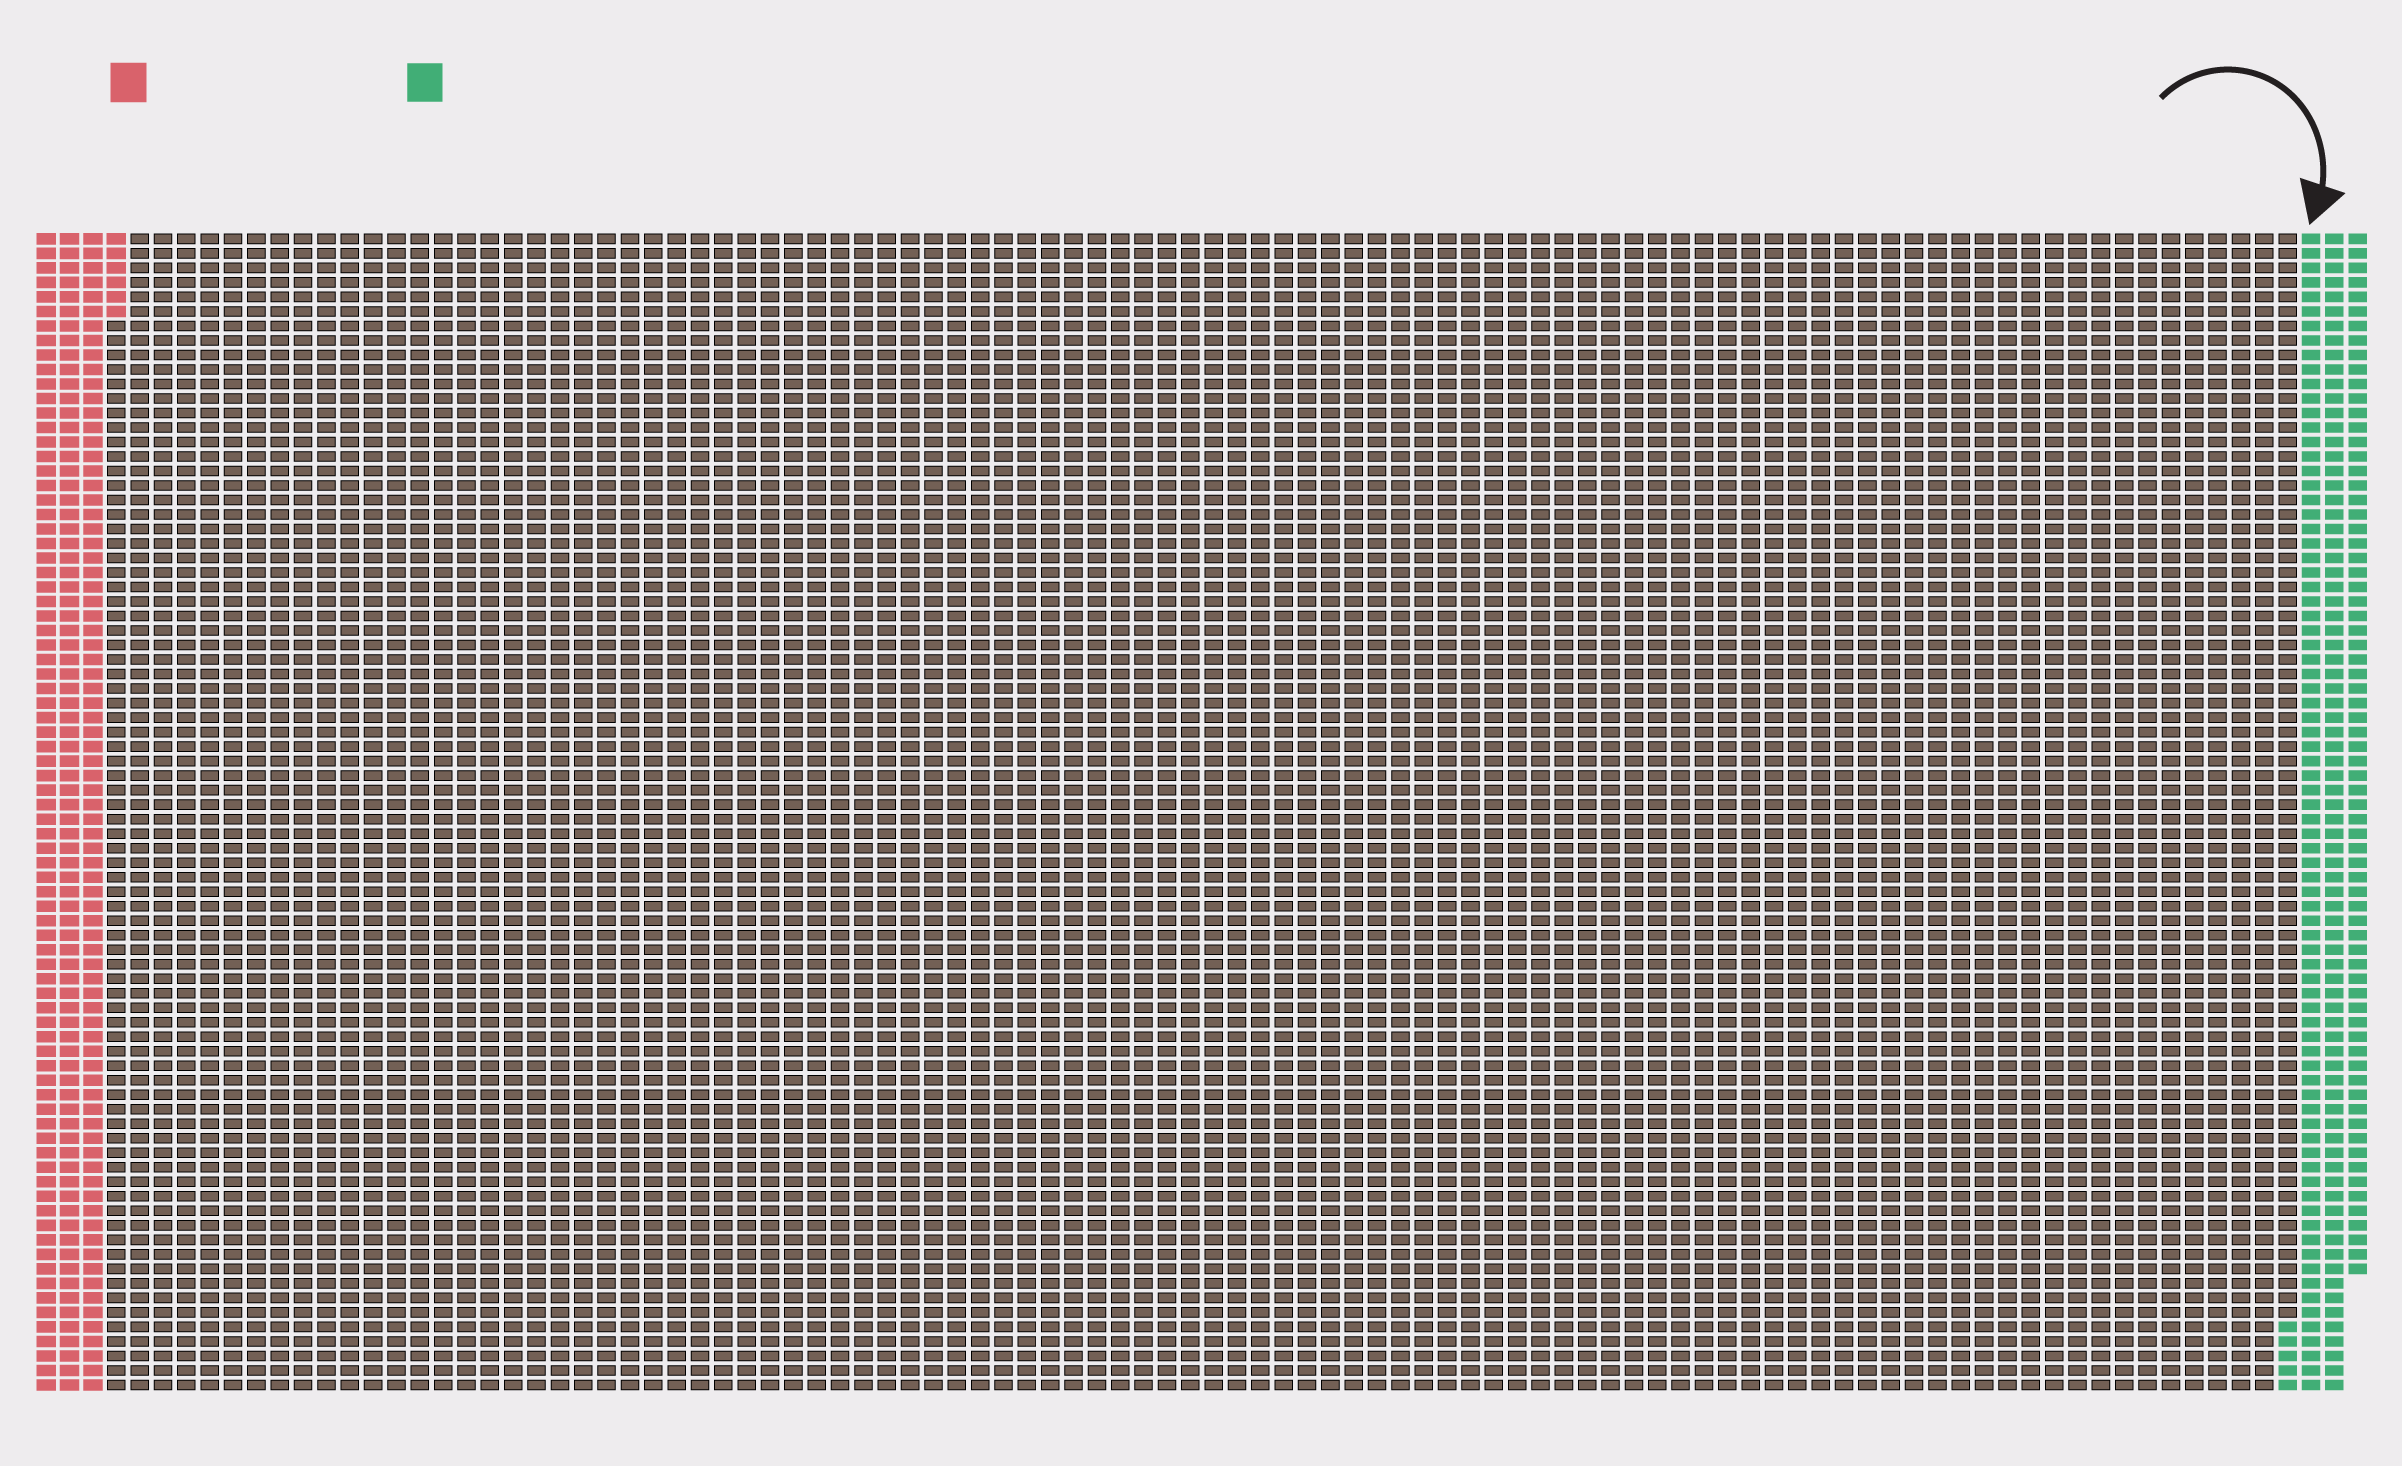
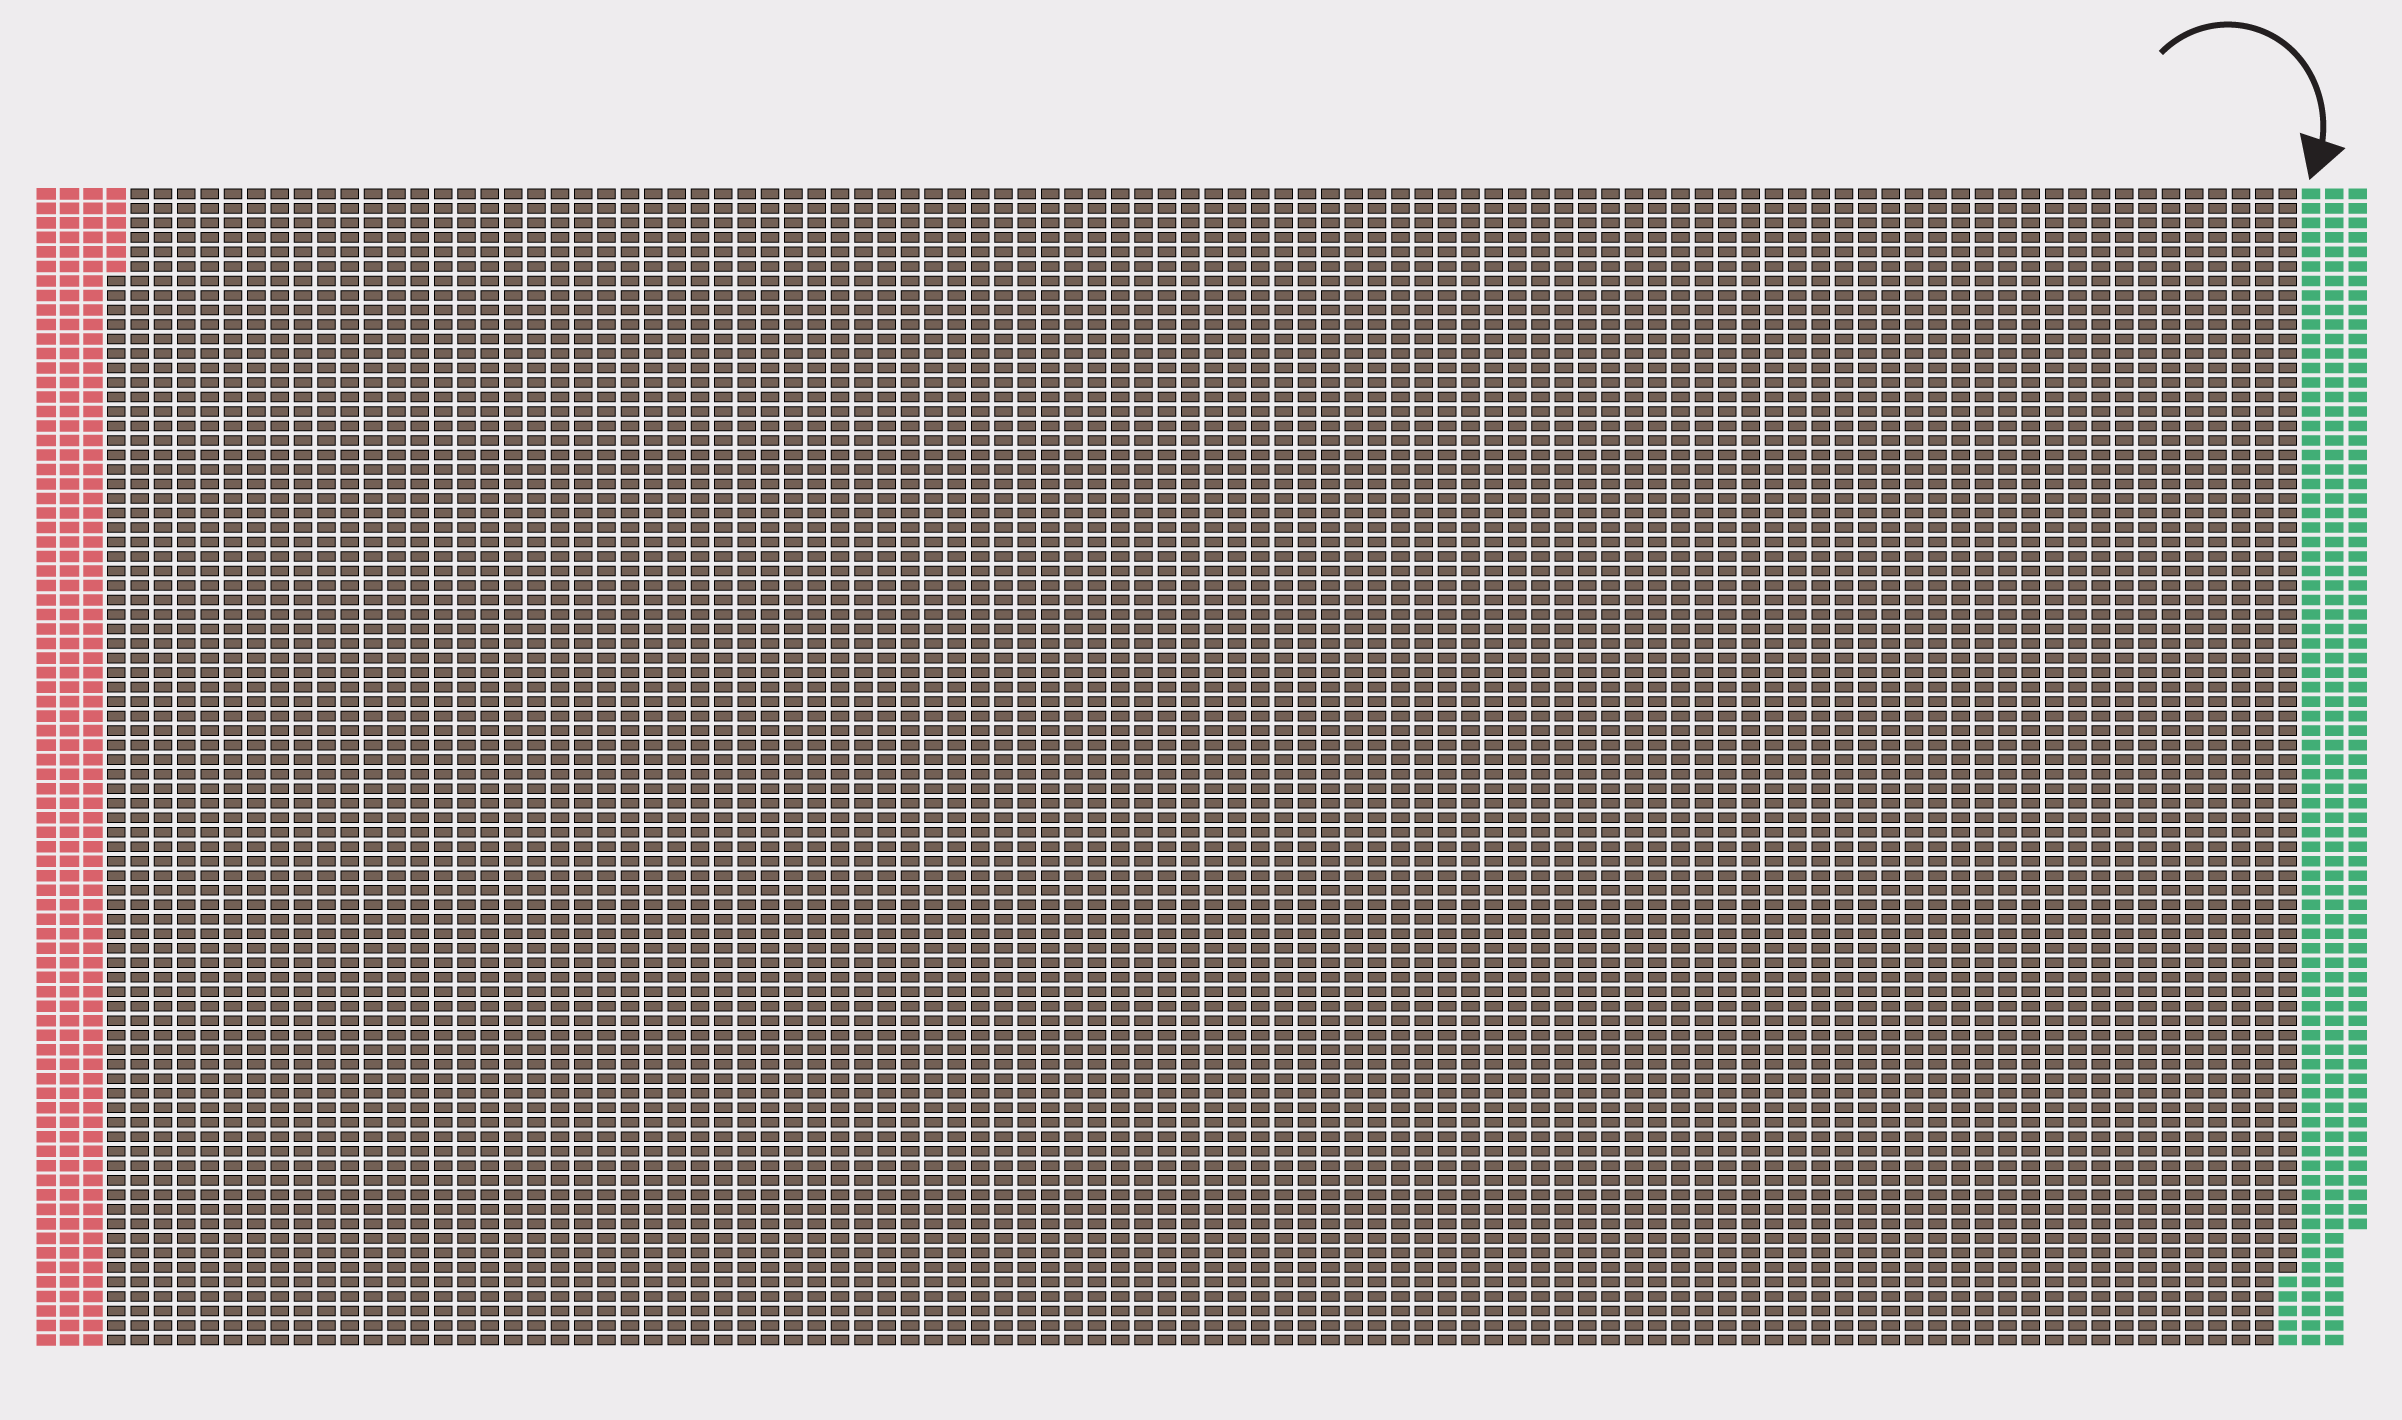
updated

diff --git a/docs/index.html b/docs/index.html
@@ -70,10 +70,11 @@
 
 <div class="container" data-aos="fade-in" data-aos-duration="1000">
   <h2>Cases Languishing for Over <span>Three Decades</span></h2>
-<h6>One block represents 100 criminal matters heard in over 630 district-level courts in India that have remained inconclusive for more than 3 decades, some dating back to 1966.<span class="Maha">Maharashtra</span> and <span class="UP">Uttar Pradesh</span> make for nearly 50,000 such cases.</h6>
+<h6>One block represents 100 criminal matters heard in over 630 district-level courts in India that have remained inconclusive for more than 3 decades, some dating back to 1966. <span class="Maha">Maharashtra</span> and <span class="UP">Uttar Pradesh</span> make for nearly 50,000 such cases.</h6>
 </div>
 <div data-aos="fade-in" data-aos-duration="1000">
-<!-- Generated by ai2html v0.115.5 - 2023-08-09 21:23 -->
+
+<!-- Generated by ai2html v0.115.5 - 2023-08-10 11:55 -->
 <!-- ai file: over_30_cases.ai -->
 <style media="screen,print">
 	#g-over_30_cases-box ,
@@ -119,37 +120,10 @@
 	}
 	#g-over_30_cases-Artboard_1 .g-pstyle0 {
 		height:17px;
-		font-size:17px;
-	}
-	#g-over_30_cases-Artboard_1 .g-pstyle1 {
-		height:17px;
 	}
 	#g-over_30_cases-Artboard_2 {
 		position:relative;
 		overflow:hidden;
-	}
-	#g-over_30_cases-Artboard_2 p {
-		font-weight:700;
-		line-height:19px;
-		height:auto;
-		opacity:1;
-		letter-spacing:0em;
-		font-size:12px;
-		text-align:left;
-		color:rgb(0,0,0);
-		text-transform:none;
-		padding-bottom:0;
-		padding-top:0;
-		mix-blend-mode:normal;
-		font-style:normal;
-		position:static;
-	}
-	#g-over_30_cases-Artboard_2 .g-pstyle0 {
-		height:19px;
-		font-size:14px;
-	}
-	#g-over_30_cases-Artboard_2 .g-pstyle1 {
-		height:19px;
 	}
 
 </style>
@@ -231,19 +205,13 @@
 <div id="g-over_30_cases-box" class="ai2html">
 
 	<!-- Artboard: Artboard_1 -->
-	<div id="g-over_30_cases-Artboard_1" class="g-artboard" style="width:1201px; height:732.887916268154px;" data-aspect-ratio="1.639" data-min-width="1201">
+	<div id="g-over_30_cases-Artboard_1" class="g-artboard" style="width:1201px; height:710.299726489748px;" data-aspect-ratio="1.691" data-min-width="1201">
 <div style=""></div>
 		<img id="g-over_30_cases-Artboard_1-img" class="g-over_30_cases-Artboard_1-img g-aiImg" alt="" src="over_30_cases-Artboard_1.png"/>
-		<div id="g-ai0-1" class="g-Layer_1 g-aiAbs g-aiPointText" style="top:5.6485%;margin-top:-11.4px;left:6.9346%;width:114px;">
-			<p class="g-pstyle0">Maharashtra</p>
-		</div>
-		<div id="g-ai0-2" class="g-Layer_1 g-aiAbs g-aiPointText" style="top:5.6485%;margin-top:-11.4px;left:19.1871%;width:123px;">
-			<p class="g-pstyle0">Uttar Pradesh</p>
-		</div>
-		<div id="g-ai0-3" class="g-Layer_1 g-aiAbs g-aiPointText" style="top:10.5969%;margin-top:-27.7px;left:78.3125%;width:168px;">
-			<p class="g-pstyle1">Sadhupur mass-murder </p>
-			<p class="g-pstyle1">case is 1/100th </p>
-			<p class="g-pstyle1">of one block </p>
+		<div id="g-ai0-1" class="g-Layer_1 g-aiAbs g-aiPointText" style="top:7.8366%;margin-top:-27.7px;left:78.3125%;width:168px;">
+			<p class="g-pstyle0">Sadhupur mass-murder </p>
+			<p class="g-pstyle0">case is 1/100th </p>
+			<p class="g-pstyle0">of one block </p>
 		</div>
 	</div>
 
@@ -251,17 +219,12 @@
 	<div id="g-over_30_cases-Artboard_2" class="g-artboard" style="max-width: 399px;max-height: 548px" data-aspect-ratio="0.728" data-min-width="0" data-max-width="1200">
 <div style="padding: 0 0 137.2857% 0;"></div>
 		<img id="g-over_30_cases-Artboard_2-img" class="g-over_30_cases-Artboard_2-img g-aiImg" alt="" src="over_30_cases-Artboard_2.png"/>
-		<div id="g-ai1-1" class="g-Layer_1 g-aiAbs g-aiPointText" style="top:7.0724%;margin-top:-11.7px;left:58.6645%;width:110px;">
-			<p class="g-pstyle0">Maharashtra</p>
-		</div>
-		<div id="g-ai1-2" class="g-Layer_1 g-aiAbs g-aiPointText" style="top:92.8589%;margin-top:-11.7px;left:25.0823%;width:108px;">
-			<p class="g-pstyle1">Uttar Pradesh</p>
-		</div>
 	</div>
 
 </div>
 
-<!-- End ai2html - 2023-08-09 21:23 -->
+<!-- End ai2html - 2023-08-10 11:55 -->
+
 
 
 </div>

diff --git a/docs/style.css b/docs/style.css
@@ -63,7 +63,7 @@ span {
 }
 
 .UP {
-    fill: #339966;
+    color: #339966;
 }
 
 .img {
